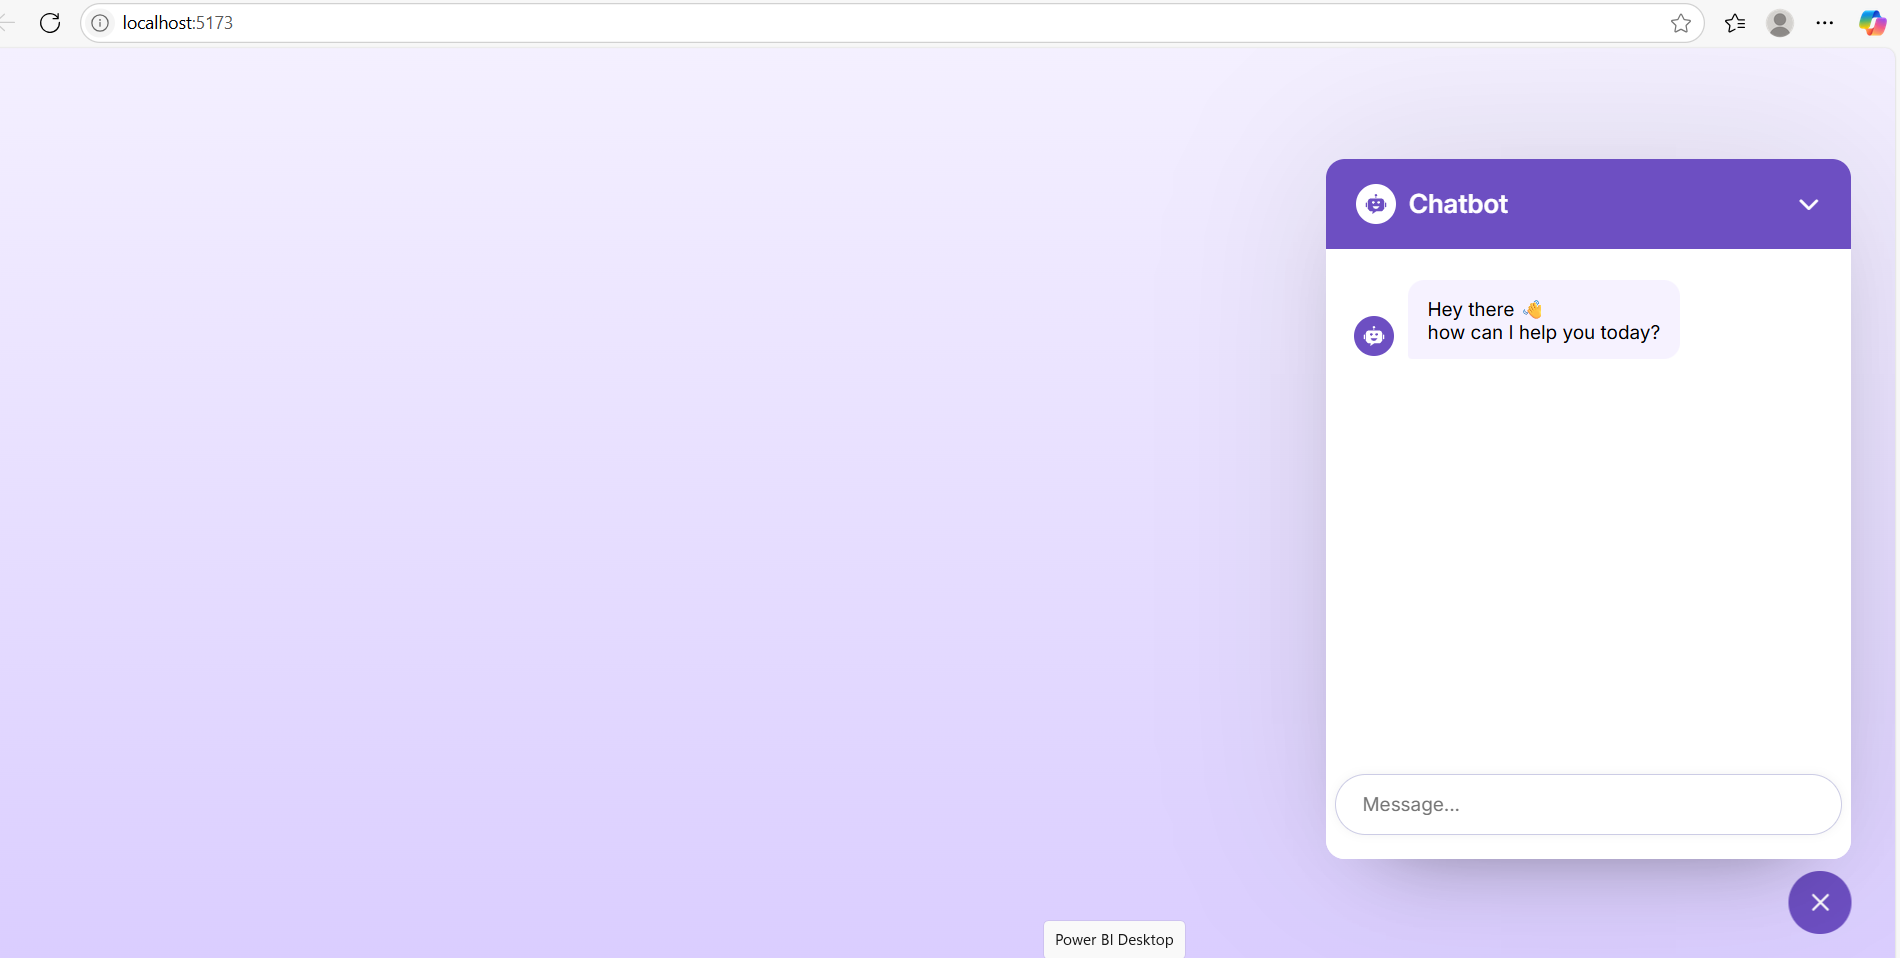
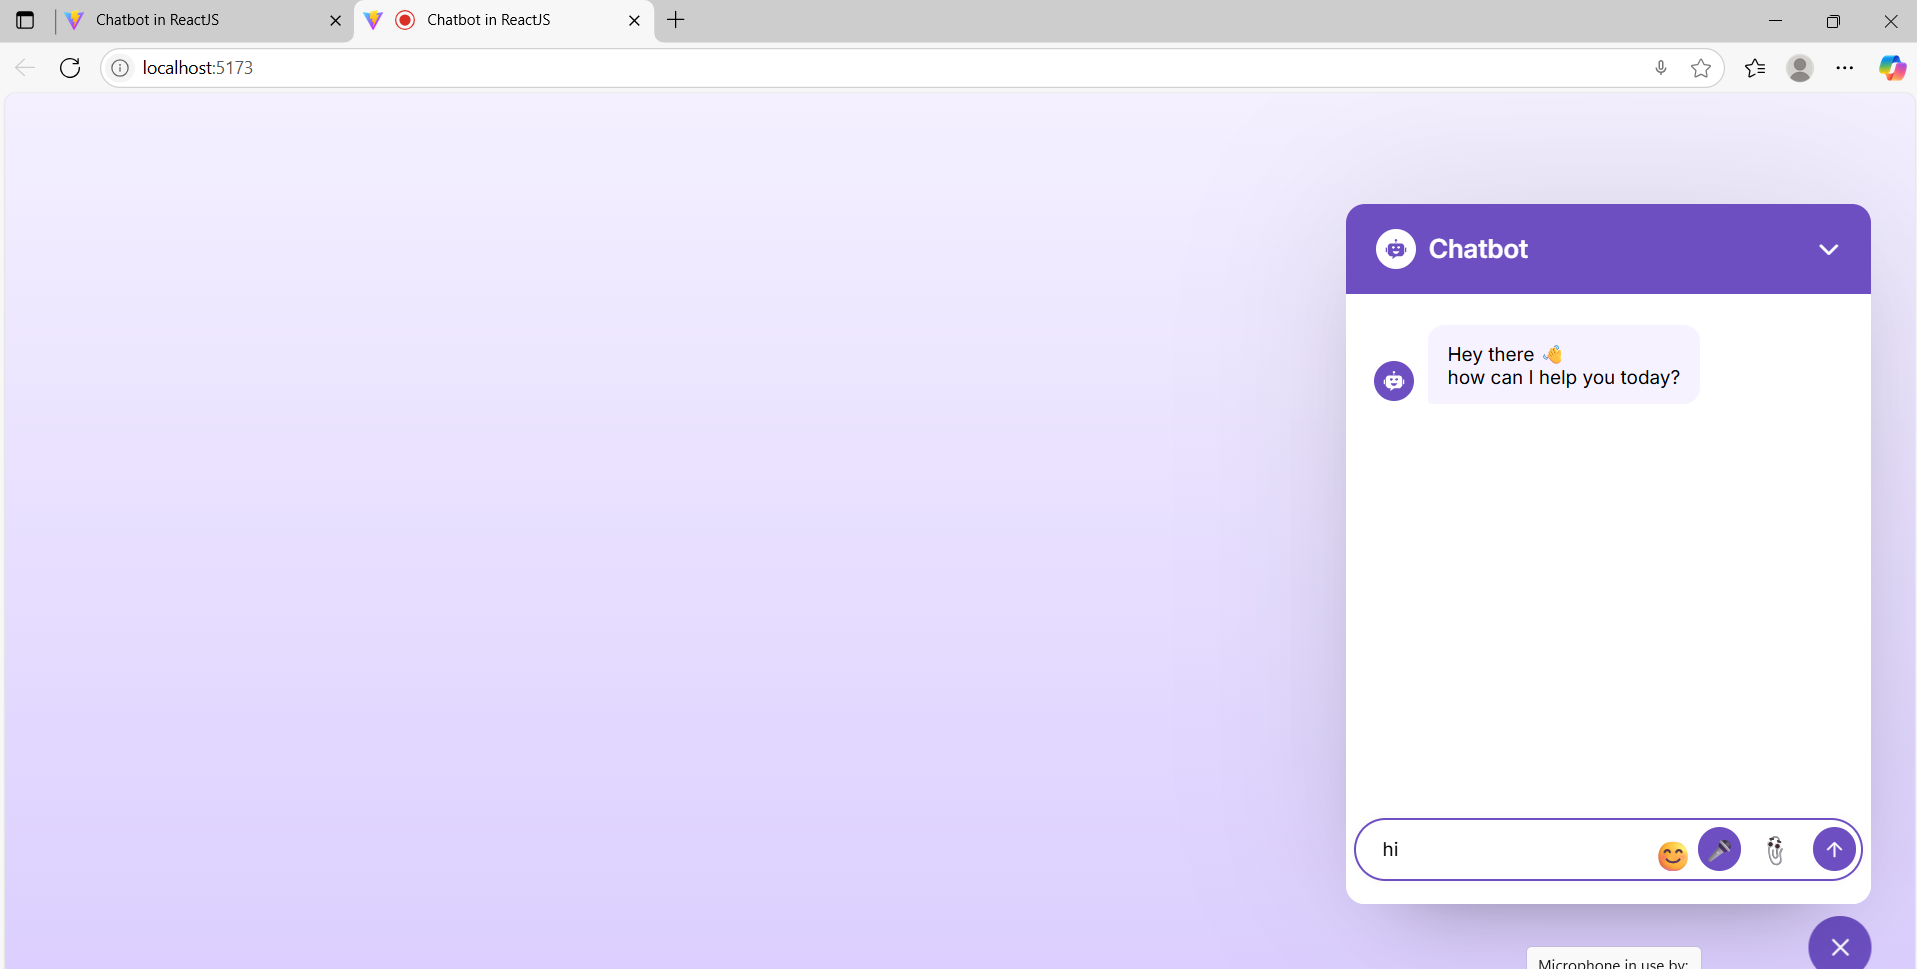
Updated README with folder structure

diff --git a/src/components/ChatForm.jsx b/src/components/ChatForm.jsx
@@ -1,9 +1,11 @@
 import { useRef, useState } from "react";
-import EmojiPicker from "emoji-picker-react"; // ✅ Import emoji picker
+import EmojiPicker from "emoji-picker-react";
 
 const ChatForm = ({ chatHistory, setChatHistory, generateBotResponse }) => {
   const inputRef = useRef();
   const [showEmojiPicker, setShowEmojiPicker] = useState(false);
+  const [listening, setListening] = useState(false);
+  const recognitionRef = useRef(null);
 
   const handleFormSubmit = (e) => {
     e.preventDefault();
@@ -32,12 +34,81 @@ const ChatForm = ({ chatHistory, setChatHistory, generateBotResponse }) => {
   };
 
   const handleFileUpload = (e) => {
-    const file = e.target.files[0];
-    if (file) {
-      setChatHistory((history) => [
-        ...history,
-        { role: "user", text: `📎 Uploaded file: ${file.name}` },
-      ]);
+  const file = e.target.files[0];
+  if (file && file.type.startsWith("image/")) {
+    const reader = new FileReader();
+    reader.onloadend = () => {
+      const imageDataUrl = reader.result;
+
+      // Add image to chat history
+      const imageMessage = {
+        role: "user",
+        text: (
+          <div>
+            📎 Uploaded image: <br />
+            <img src={imageDataUrl} alt={file.name} style={{ maxWidth: "150px", borderRadius: "8px" }} />
+          </div>
+        ),
+        imageData: imageDataUrl, // Optional: for logic if needed
+      };
+
+      // Update chat history
+      setChatHistory((history) => [...history, imageMessage]);
+
+      // Auto-generate a bot response after showing image
+      setTimeout(() => {
+        setChatHistory((history) => [
+          ...history,
+          { role: "model", text: "Analyzing image..." },
+        ]);
+
+        generateBotResponse([
+          ...chatHistory,
+          {
+            role: "user",
+            text: `Please analyze the uploaded image named "${file.name}"`,
+          },
+        ]);
+      }, 800);
+    };
+    reader.readAsDataURL(file);
+  } else if (file) {
+    // Handle non-image files normally
+    setChatHistory((history) => [
+      ...history,
+      { role: "user", text: `📎 Uploaded file: ${file.name}` },
+    ]);
+  }
+};
+
+
+  const handleVoiceInput = () => {
+    if (!("webkitSpeechRecognition" in window)) {
+      alert("Voice input not supported in this browser.");
+      return;
+    }
+
+    if (!recognitionRef.current) {
+      const SpeechRecognition = window.webkitSpeechRecognition;
+      recognitionRef.current = new SpeechRecognition();
+      recognitionRef.current.continuous = false;
+      recognitionRef.current.lang = "en-US";
+      recognitionRef.current.interimResults = false;
+
+      recognitionRef.current.onresult = (event) => {
+        const transcript = event.results[0][0].transcript;
+        inputRef.current.value += transcript;
+      };
+
+      recognitionRef.current.onend = () => setListening(false);
+    }
+
+    if (!listening) {
+      recognitionRef.current.start();
+      setListening(true);
+    } else {
+      recognitionRef.current.stop();
+      setListening(false);
     }
   };
 
@@ -67,16 +138,26 @@ const ChatForm = ({ chatHistory, setChatHistory, generateBotResponse }) => {
 
       {/* Full Emoji Picker */}
       {showEmojiPicker && (
-  <div className="emoji-picker">
-    <EmojiPicker
-      onEmojiClick={(emojiData) => {
-        inputRef.current.value += emojiData.emoji;
-        setShowEmojiPicker(false); // Optional: close picker after selecting
-      }}
-      emojiStyle="native" // Optional: choose "native" or "apple" etc.
-    />
-  </div>
-)}
+        <div className="emoji-picker">
+          <EmojiPicker
+            onEmojiClick={(emojiData) => {
+              inputRef.current.value += emojiData.emoji;
+              setShowEmojiPicker(false);
+            }}
+            emojiStyle="native"
+          />
+        </div>
+      )}
+
+      {/* Voice Button */}
+      <button
+        type="button"
+        onClick={handleVoiceInput}
+        title="Voice Input"
+        style={{ marginLeft: "5px", cursor: "pointer" }}
+      >
+        🎤
+      </button>
 
       {/* Upload File Button */}
       <label
@@ -88,6 +169,7 @@ const ChatForm = ({ chatHistory, setChatHistory, generateBotResponse }) => {
         <input
           id="file-upload"
           type="file"
+          accept="image/*"
           style={{ display: "none" }}
           onChange={handleFileUpload}
         />

diff --git a/README.md b/README.md
@@ -1,20 +1,25 @@
-# AI Chatbot – React + Vite
+# 🤖AI Chatbot – React + Vite
 
-This is an AI Chatbot built using React and Vite. It features a minimal and responsive interface that allows user-like chat interaction.
+This is an AI Chatbot built using React and Vite. It features a clean, minimal, and responsive interface for interactive conversations. Users can chat via text, pick emojis, upload image files, and even use voice input to communicate.
 
 ## 📦 Features
 
-- React components for chatbot UI
-- Message form and chat display
-- Icon rendering
-- Simple and modern design using CSS
+Chat interface built with React components
+Emoji picker support
+Voice input (speech-to-text)
+Image upload (visible in chat)
+File upload support
+Fast build and dev server with Vite
+Simple and modern design using CSS
 
 ## 🛠 Tech Stack
 
-- React
-- JavaScript (JSX)
-- Vite
-- CSS
+React
+JavaScript (JSX)
+Vite
+CSS3
+emoji-picker-react
+Web Speech API (for voice input)
 
 ## 🚀 Getting Started
 
@@ -24,10 +29,33 @@ This is an AI Chatbot built using React and Vite. It features a minimal and resp
    cd AI-Chatbot
    npm install
    npm run dev
+   The app will run at http://localhost:5173
 
 ## 🖼 Screenshot
 
 [![Chatbot UI](https://raw.githubusercontent.com/sanmathimn/AI-Chatbot/main/chatbot-ui.png)](https://raw.githubusercontent.com/sanmathimn/AI-Chatbot/main/chatbot-ui.png)
+
+AI-Chatbot/
+├── public/
+│   └── favicon.svg
+│
+├── src/
+│   ├── assets/                   # Images, icons, etc.
+│   ├── components/               # UI components
+│   │   ├── ChatForm.jsx          # Input form: emoji, voice, image
+│   │   └── ChatMessage.jsx       # Display individual chat messages
+│   ├── utils/                    # (Optional) Utility functions
+│   │   └── speechRecognition.js  # Voice input logic
+│   ├── App.jsx                   # Main app logic
+│   ├── main.jsx                  # React app entry
+│   └── index.css                 # Global styles
+│
+├── index.html                   # HTML template
+├── vite.config.js               # Vite config
+├── package.json                 # Project metadata and dependencies
+├── LICENSE                      # Open source license
+├── .gitignore                   # Ignored files for Git
+└── README.md                    # Project documentation
 
 
 ## 📄 License
